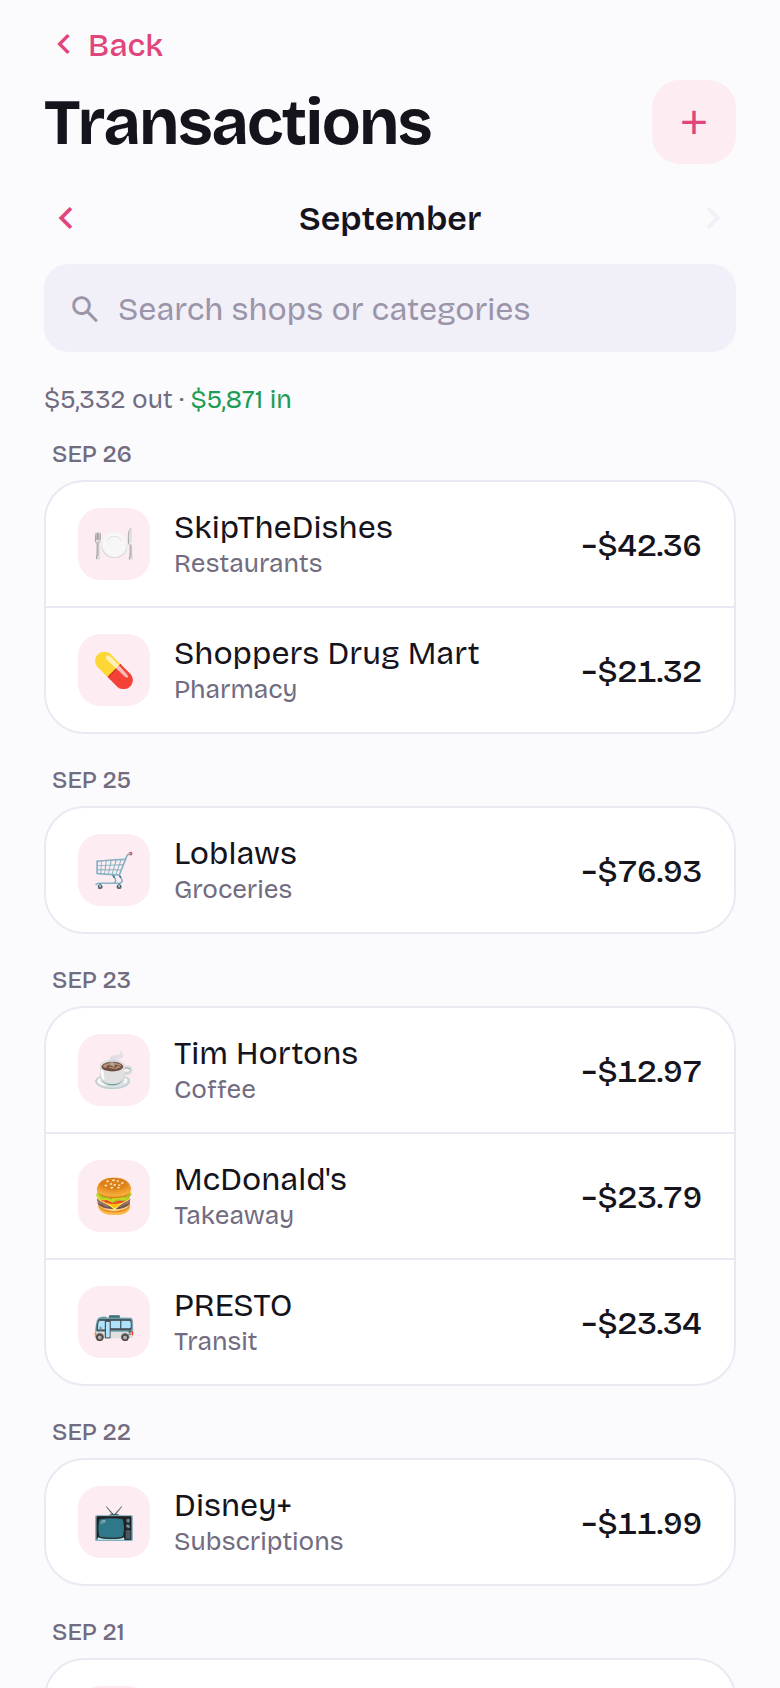
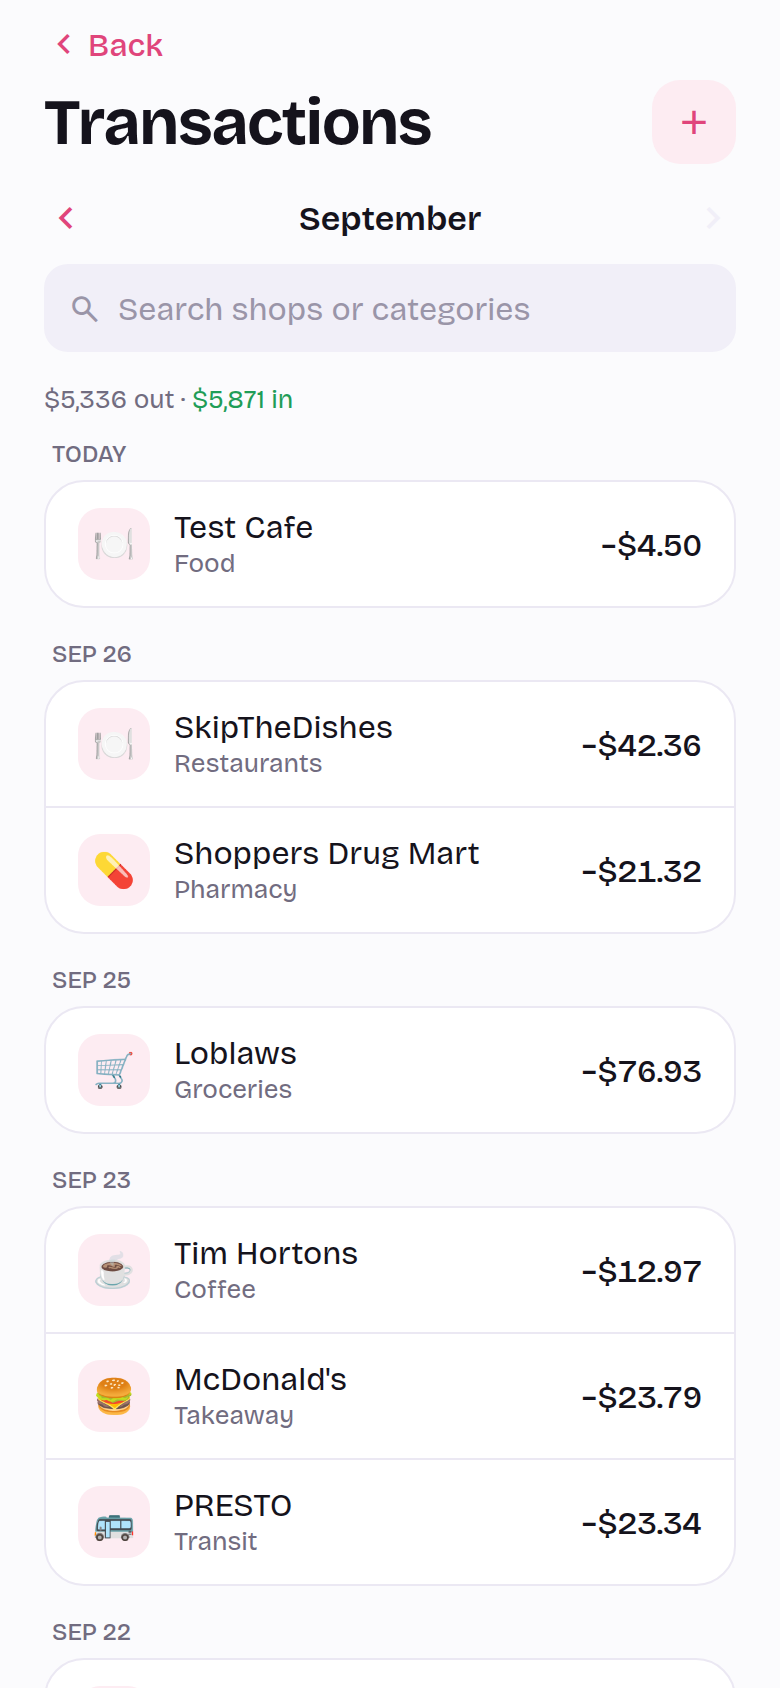
iOS app step 4a: transactions list and add-a-purchase, tested end to end
- Keep the $ beside the amount on the add sheet.
- Screenshots of both screens in light and dark.

Verified against a local server: list, day grouping, search, month switching,
adding a purchase, the Spending total rising by it, and it appearing today.

Claude-Session: https://claude.ai/code/session_01MVhZ5JpFv5cdUH6FB37AaQ

diff --git a/mobile/app/add.tsx b/mobile/app/add.tsx
@@ -102,7 +102,8 @@ export default function Add() {
           <View style={{ flexDirection: 'row', alignItems: 'center' }}>
             <Text style={{ fontFamily: font.bold, fontSize: 46, color: amount ? c.text : c.textSubtle }}>$</Text>
             <TextInput value={amount} onChangeText={setAmount} placeholder="0" placeholderTextColor={c.textSubtle} keyboardType="decimal-pad" autoFocus
-              accessibilityLabel="Amount" style={{ fontFamily: font.bold, fontSize: 56, color: c.text, minWidth: 60, textAlign: 'center' }} />
+              accessibilityLabel="Amount" // Sized to its digits so the $ stays beside the number instead of being pushed aside.
+              style={{ fontFamily: font.bold, fontSize: 56, color: c.text, width: Math.max(1, amount.length || 1) * 34 + 8, textAlign: 'left' }} />
           </View>
         </View>
 
